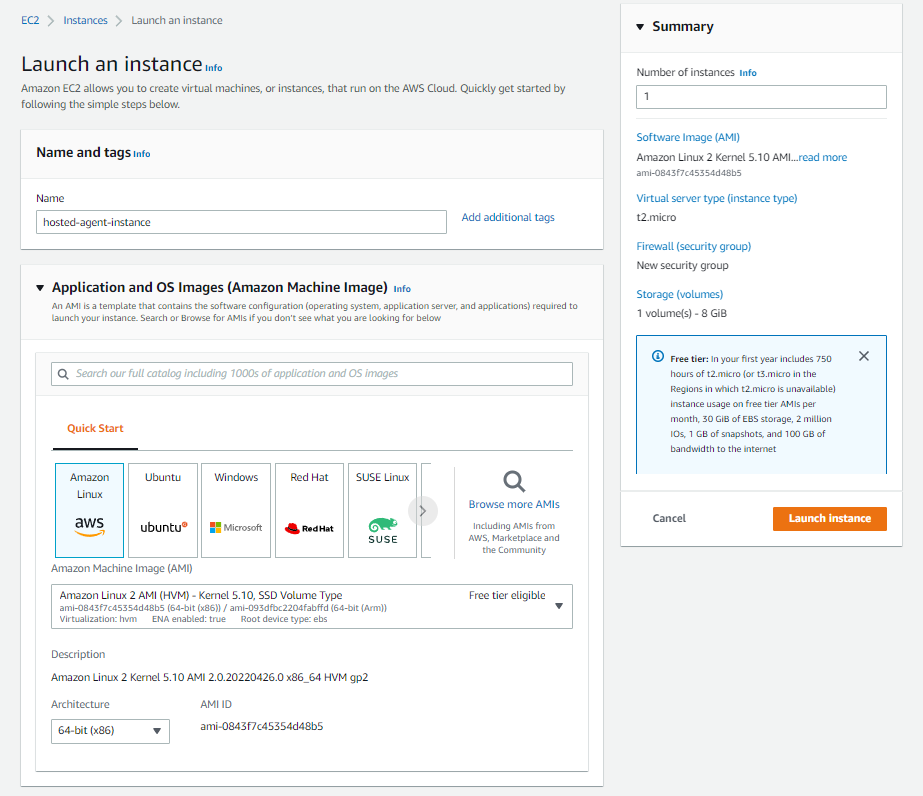
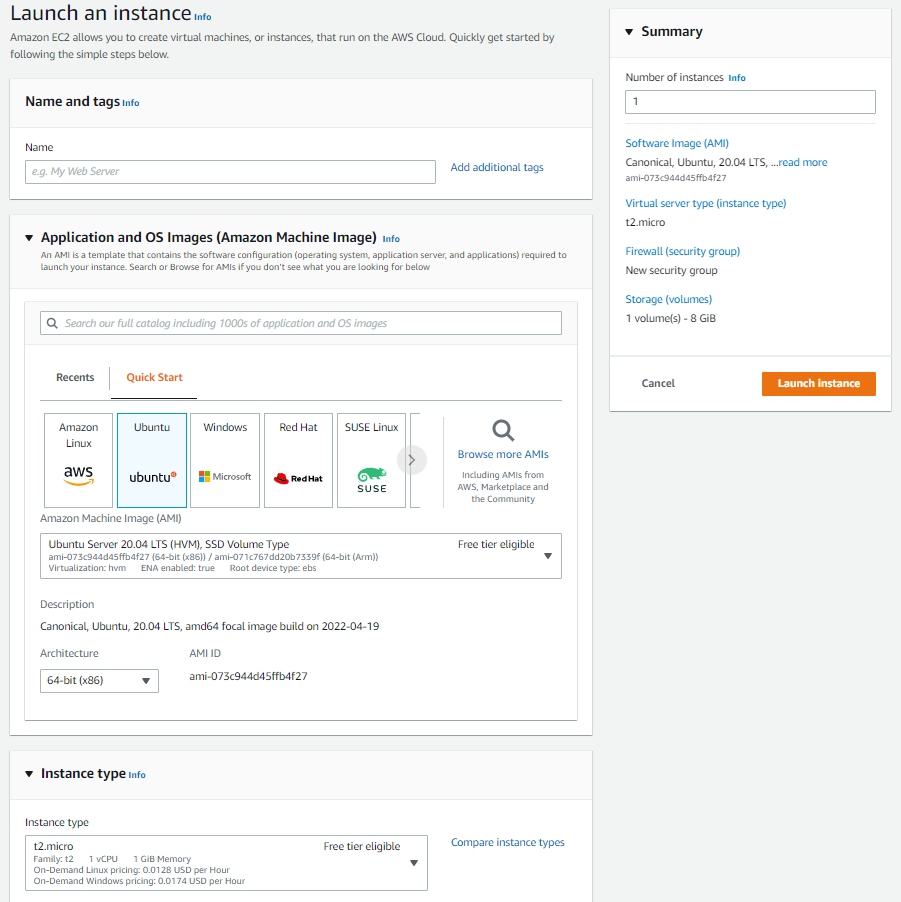
doc updates

diff --git a/README.md b/README.md
@@ -56,11 +56,10 @@ d----          2022/06/09    12:14                dat
 -a---          2022/06/09    12:16           1130 docker-compose.yml
 -a---          2022/06/09    14:44           1752 Host-Setup-AWS.md
 -a---          2022/06/09    14:47           7469 README.md
+-a---          2022/06/09    12:31            195 login.sh
 -a---          2022/06/09    12:31            195 run-agent.sh
 -a---          2022/06/06    10:50             21 stop.bat
 ```
-<br>
-Setup `ngrok` as per it's platform specific installation instructions.
 
 ## Usage
 
@@ -68,8 +67,8 @@ Setup `ngrok` as per it's platform specific installation instructions.
 
 Before starting the Business Connector, it may be preferred to modify several parameters that are present in the `docker-compose.yml` file.
 For instance the file has values which define passwords for access to the Redis and PostgreSQL instances and these should be changed for better security.
-<br>
-```
+
+``` yaml
 version: '1.0'
 services:
   db:
@@ -124,16 +123,18 @@ volumes:
 ### Start the services
 
 Start the services into config mode with the provided shell script in the project folder.
-**NOTE:** This file must be edited to include the **One37 Registry Credentials** you have been issued.
+
+**NOTE:** The `login.sh` file must be edited to include the **One37 Registry Credentials** you have been issued.
 
 ``` bash
+./login.sh
 ./run-agent.sh
 ```
-
-You will see the following output if all services have been started.
+<br>
+NOTE: The .sh files might need to be marked as executable after the first repo pull.
 <br>
 ```
-
+chmod +x *.sh
 ```
 <br>
 After it has started you can confirm this by pointing your browser to the public hostname of your VM instance.
@@ -141,44 +142,75 @@ After it has started you can confirm this by pointing your browser to the public
 You can also attach to the logs of the services (best done in a second terminal session)
 <br>
 ```
-docker-compose logs -f -t [SERVICE...]
+docker-compose logs -f
 ```
 
 ### Access and Configuration
 
 After the agent service reports that it has started the web server, you can confirm this by pointing your browser to the URL comprising of the **public hostname** of your VM instance followed by `/swagger`.
-<br>
-```
+
+``` url
 https://[yourvominstance.hostname.com]/swagger
 ```
-<br>
-Yopu should see this:
 
+You should see the **Swagger API UI**.
+You may get Certificate error messages in the browser if the EC2 load balancer has not been configured properly.
+
+Using the Swagger UI, you can now deploy the required configuration to the Agent.
+Click on `TRY it out` and use the value `Hash` in the first input fields. Leave the other fields empty.
+
+For the body of the request we are going to paste a json configuration payload which we will create next.
+
+#### Edit the config json
+
+The source code provides a template config file `COPYME-config.json` which you should make a copy of to modify according to your environment.
+Editing this on your workstation may be the easiest.
+
+``` bash
+cp COPYME-config.json dev.json
+```
+
+Edit dev.json and update the sections enclosed by `[ ]` before deployment:
+
+Do a global search and replace in the file for `[INSTANCE.HOSTNAME]` replacing it with the hosts public DNS address (e.g. of the Load balancer)
+
+at the `agency` level:
+
+``` json
+    "alias": "dev:[YOUR-AGENT-NAME]",
+    "namespace": "com.[YOUR-AGENT-NAME]",
+    "name": "[Your Agent Name]",
+```
 <br>
+at `agency.security`: (seed values provided by one37)
+
+``` json
+      "seed": "[your000000000000000000000000seed]",
+      "issuerSeed": "[your000000000000000000000000seed]",
+      "walletKey": "[Your-Wallet-Passkey]"
+```
+<br>
+at `agency.schema`: (DID provided by one37)
+
+``` json
+      "agentNym": "[Your-Generated-Did]",
+```
+<br>
+Once the neccesary changes have been made, copy the entire contents and paste it into the Agent Swagger Config Set body input area.
+
+Click `Execute` and you will see that in the logs that the agent container has restarted and is proceeding to set itself up.
+Please wait until all activity ceases or make a note of any failure mesagges to determine a remedial course of action.
+
 ## Support
 
-Tell people where they can go to for help. It can be any combination of an issue tracker, a chat room, an email address, etc.
-
-## Roadmap
-
-If you have ideas for releases in the future, it is a good idea to list them in the README.
-
-## Contributing
-
-State if you are open to contributions and what your requirements are for accepting them.
-
-For people who want to make changes to your project, it's helpful to have some documentation on how to get started. Perhaps there is a script that they should run or some environment variables that they need to set. Make these steps explicit. These instructions could also be useful to your future self.
-
-You can also document commands to lint the code or run tests. These steps help to ensure high code quality and reduce the likelihood that the changes inadvertently break something. Having instructions for running tests is especially helpful if it requires external setup, such as starting a Selenium server for testing in a browser.
+Please direct any support queries via the Issues function in the GitHub Repo.
 
 ## Authors and acknowledgment
 
-Show your appreciation to those who have contributed to the project.
+This project was made possible by the following contributors:
+G. De Beer (Dibbs\_ZA)
+A. Podick
 
 ## License
 
 For open source projects, say how it is licensed.
-
-## Project status
-
-If you have run out of energy or time for your project, put a note at the top of the README saying that development has slowed down or stopped completely. Someone may choose to fork your project or volunteer to step in as a maintainer or owner, allowing your project to keep going. You can also make an explicit request for maintainers.

diff --git a/Host-Setup-AWS.md b/Host-Setup-AWS.md
@@ -1,32 +1,32 @@
-#Simple Host Setup - AWS EC2
+# Simple Host Setup - AWS EC2
 
 ## Introduction
-<br>
+
+Setting up a small linux host in the cloud is our recommended approach to getting your agent going. This because the cloud provider also provides for all the additional networking requirements like public IP addresses and DNS names and TLS certificates.
+
 ## Setup Procedure
 
 ### Create EC2 Instance
 
 It is relatively simple to create an usable EC2 instance using the new EC2 Launch Wizard.
-Simply leave all the defaults and include the following options:
+We will use Ubuntu 20.04 LTS as the OS and leave all the other defaults and include the following options:
 
-Give your instance a name<br>
-![Wizard Overview](.media/img_0.png)<br>
-Create a Login KeyPair (if you don't already have one)<br>
-![Wizard KeyPair](.media/img_1.png)<br>
-Select the additional HTTPS & HTTP inbound traffic access rules<br>
-![Wizard Networking](.media/img_2.png)<br>
-Then click Launch and wait a minute for the instance to start.<br>
-![Wizard Launch](.media/img_3.png)<br>
+Give your instance a name
+![Wizard Overview](.media/img_0.png)
+Create a Login KeyPair (if you don't already have one)
+![Wizard KeyPair](.media/img_1.png)
+Select the additional HTTPS & HTTP inbound traffic access rules
+![Wizard Networking](.media/img_2.png)
+Then click Launch and wait a minute for the instance to start.
+![Wizard Launch](.media/img_3.png)
 
-After a bit you will see the instances created and the summary of any selected instance.<br>
+After a bit you will see the instances created and the summary of any selected instance.
 ![Wizard Networking](.media/img_4.png)
 
 ### Connect to Instance
 
 Clicking the CONNECT button at the top of the summary screen will show you a dialog of common ways to connect to your new instances command shell. You will need the Key-Pair file you created above if you choose the SSH method.
 
-Once you have connected you should see the following in your terminal program.<br>
-![Command Shell](.media/img_5.png)
 ### Install Software Pre-requisites
 
 #### Install Security Updates
@@ -34,20 +34,47 @@ Once you have connected you should see the following in your terminal program.<b
 As prompted during the initial shell login welcome, you should install any additional updates and security patches if prompted.
 
 ``` bash
-sudo yum update
+sudo apt update
+sudo apt upgrade
 ```
 
-#### Install Docker tools
+#### Install Docker and tools
+
+Install Docker with the dev installation script. [docs](https://docs.docker.com/engine/install/ubuntu/)
 
 ``` bash
-sudo yum install docker
-sudo curl -L https://github.com/docker/compose/releases/download/1.22.0/docker-compose-$(uname -s)-$(uname -m) -o /usr/local/bin/docker-compose
-sudo chmod +x /usr/local/bin/docker-compose
+curl -fsSL https://get.docker.com -o get-docker.sh
+sudo sh get-docker.sh
+sudo usermod -aG docker $USER
+```
+
+At this point you need to log out and back in again (and probably also do an instance reboot)
+
+``` bash
+sudo reboot
+```
+
+Check the docker system after logging back in
+
+``` bash
+docker version
 docker-compose version
 ```
 
 #### Install Git
 
 ``` bash
-sudo yum install git
+sudo apt install git
 ```
+
+### Additional Setup
+
+The docker images provided do not come with their own TLS certificates, so it is required that you use additional AWS features like *Load Balancers* (Listeners with HTTPS) & *Target Groups* (Instance with HTTP) to configure the relevant inbound networking configuration.
+You will need to cater for the following **Listener** and **Target Group** configuration.
+
+| Component | LB Listener Config | Target Group Config<br>(Instance mode) |
+| --------- | ------------------ | ---------------------------------- |
+| agent | HTTPS (443) | HTTP (80) |
+| demo app | HTTPS (8080) | HTTP (8080) |
+
+Follow the rest of the setup deployment guide.
